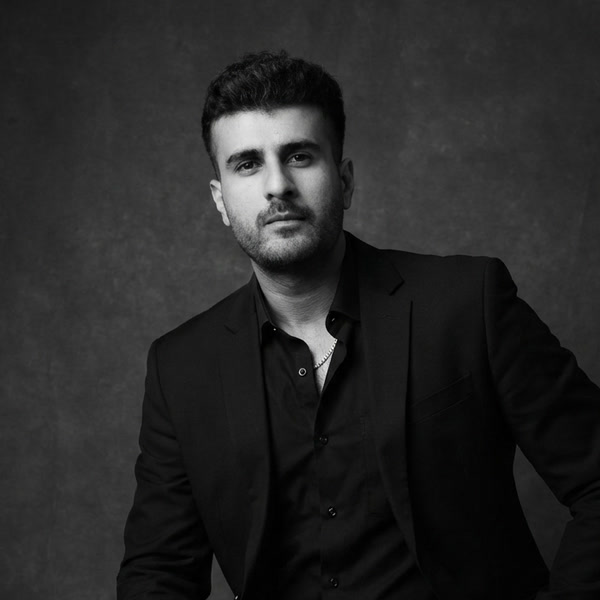
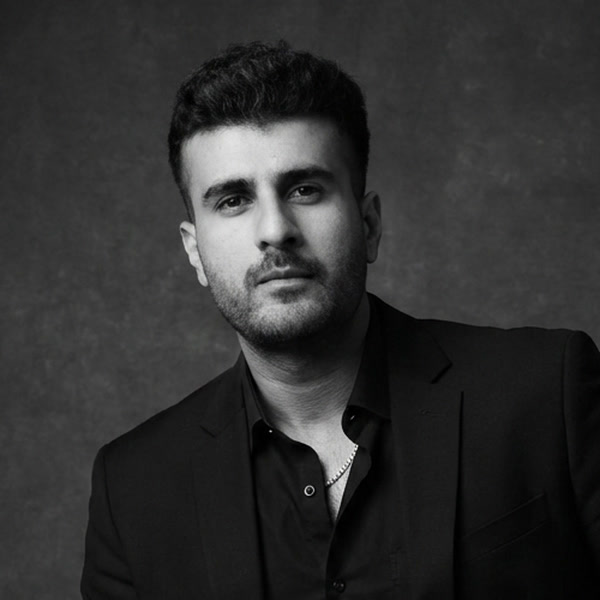
Harsh's portrait, tighter
The head-and-shoulders crop read wide once it was inside a small circle.
Cropped closer so the face carries the frame.

diff --git a/test3/product-founder-branding-autopilot.html b/test3/product-founder-branding-autopilot.html
@@ -34,7 +34,7 @@
   <link rel="apple-touch-icon" sizes="180x180" href="/apple-touch-icon.png">
   <link rel="preload" href="assets/fonts/anton-latin.woff2" as="font" type="font/woff2" crossorigin>
   <link rel="preload" href="assets/fonts/chivo-mono-latin.woff2" as="font" type="font/woff2" crossorigin>
-  <link rel="stylesheet" href="assets/css/main.css?v=2609131116">
+  <link rel="stylesheet" href="assets/css/main.css?v=2609131127">
   <script type="speculationrules">{"prefetch":[{"where":{"href_matches":"/*"},"eagerness":"conservative"}]}</script>
 </head>
 <body>
@@ -505,14 +505,14 @@
 
   </main>
 
-  <script src="assets/js/vendor/gsap.min.js?v=2609131116"></script>
-  <script src="assets/js/vendor/ScrollTrigger.min.js?v=2609131116"></script>
-  <script src="assets/js/vendor/lenis.min.js?v=2609131116"></script>
-  <script src="assets/js/main.js?v=2609131116"></script>
-  <script src="assets/js/work.js?v=2609131116"></script>
-  <script src="assets/js/work-film.js?v=2609131116"></script>
-  <script src="assets/js/panels.js?v=2609131116"></script>
-  <script src="assets/js/chat-play.js?v=2609131116"></script>
-  <script src="assets/js/project-film.js?v=2609131116"></script>
+  <script src="assets/js/vendor/gsap.min.js?v=2609131127"></script>
+  <script src="assets/js/vendor/ScrollTrigger.min.js?v=2609131127"></script>
+  <script src="assets/js/vendor/lenis.min.js?v=2609131127"></script>
+  <script src="assets/js/main.js?v=2609131127"></script>
+  <script src="assets/js/work.js?v=2609131127"></script>
+  <script src="assets/js/work-film.js?v=2609131127"></script>
+  <script src="assets/js/panels.js?v=2609131127"></script>
+  <script src="assets/js/chat-play.js?v=2609131127"></script>
+  <script src="assets/js/project-film.js?v=2609131127"></script>
 </body>
 </html>

diff --git a/test3/index.html b/test3/index.html
@@ -34,7 +34,7 @@
   <link rel="apple-touch-icon" sizes="180x180" href="/apple-touch-icon.png">
   <link rel="preload" href="assets/fonts/anton-latin.woff2" as="font" type="font/woff2" crossorigin>
   <link rel="preload" href="assets/fonts/chivo-mono-latin.woff2" as="font" type="font/woff2" crossorigin>
-  <link rel="stylesheet" href="assets/css/main.css?v=2609131116">
+  <link rel="stylesheet" href="assets/css/main.css?v=2609131127">
   <script type="speculationrules">{"prefetch":[{"where":{"href_matches":"/*"},"eagerness":"conservative"}]}</script>
 </head>
 <body>
@@ -323,11 +323,11 @@
 
   </main>
 
-  <script src="assets/js/vendor/gsap.min.js?v=2609131116"></script>
-  <script src="assets/js/vendor/ScrollTrigger.min.js?v=2609131116"></script>
-  <script src="assets/js/vendor/lenis.min.js?v=2609131116"></script>
-  <script src="assets/js/main.js?v=2609131116"></script>
-  <script src="assets/js/home.js?v=2609131116"></script>
-  <script src="assets/js/panel-video.js?v=2609131116"></script>
+  <script src="assets/js/vendor/gsap.min.js?v=2609131127"></script>
+  <script src="assets/js/vendor/ScrollTrigger.min.js?v=2609131127"></script>
+  <script src="assets/js/vendor/lenis.min.js?v=2609131127"></script>
+  <script src="assets/js/main.js?v=2609131127"></script>
+  <script src="assets/js/home.js?v=2609131127"></script>
+  <script src="assets/js/panel-video.js?v=2609131127"></script>
 </body>
 </html>

diff --git a/test3/product.html b/test3/product.html
@@ -34,7 +34,7 @@
   <link rel="apple-touch-icon" sizes="180x180" href="/apple-touch-icon.png">
   <link rel="preload" href="assets/fonts/anton-latin.woff2" as="font" type="font/woff2" crossorigin>
   <link rel="preload" href="assets/fonts/chivo-mono-latin.woff2" as="font" type="font/woff2" crossorigin>
-  <link rel="stylesheet" href="assets/css/main.css?v=2609131116">
+  <link rel="stylesheet" href="assets/css/main.css?v=2609131127">
   <script type="speculationrules">{"prefetch":[{"where":{"href_matches":"/*"},"eagerness":"conservative"}]}</script>
 </head>
 <body>
@@ -176,11 +176,11 @@
 
   </main>
 
-  <script src="assets/js/vendor/gsap.min.js?v=2609131116"></script>
-  <script src="assets/js/vendor/ScrollTrigger.min.js?v=2609131116"></script>
-  <script src="assets/js/vendor/lenis.min.js?v=2609131116"></script>
-  <script src="assets/js/main.js?v=2609131116"></script>
-  <script src="assets/js/work.js?v=2609131116"></script>
-  <script src="assets/js/work-film.js?v=2609131116"></script>
+  <script src="assets/js/vendor/gsap.min.js?v=2609131127"></script>
+  <script src="assets/js/vendor/ScrollTrigger.min.js?v=2609131127"></script>
+  <script src="assets/js/vendor/lenis.min.js?v=2609131127"></script>
+  <script src="assets/js/main.js?v=2609131127"></script>
+  <script src="assets/js/work.js?v=2609131127"></script>
+  <script src="assets/js/work-film.js?v=2609131127"></script>
 </body>
 </html>

diff --git a/test3/work.html b/test3/work.html
@@ -34,7 +34,7 @@
   <link rel="apple-touch-icon" sizes="180x180" href="/apple-touch-icon.png">
   <link rel="preload" href="assets/fonts/anton-latin.woff2" as="font" type="font/woff2" crossorigin>
   <link rel="preload" href="assets/fonts/chivo-mono-latin.woff2" as="font" type="font/woff2" crossorigin>
-  <link rel="stylesheet" href="assets/css/main.css?v=2609131116">
+  <link rel="stylesheet" href="assets/css/main.css?v=2609131127">
   <script type="speculationrules">{"prefetch":[{"where":{"href_matches":"/*"},"eagerness":"conservative"}]}</script>
 </head>
 <body>
@@ -336,11 +336,11 @@
 
   </main>
 
-  <script src="assets/js/vendor/gsap.min.js?v=2609131116"></script>
-  <script src="assets/js/vendor/ScrollTrigger.min.js?v=2609131116"></script>
-  <script src="assets/js/vendor/lenis.min.js?v=2609131116"></script>
-  <script src="assets/js/main.js?v=2609131116"></script>
-  <script src="assets/js/work.js?v=2609131116"></script>
-  <script src="assets/js/work-film.js?v=2609131116"></script>
+  <script src="assets/js/vendor/gsap.min.js?v=2609131127"></script>
+  <script src="assets/js/vendor/ScrollTrigger.min.js?v=2609131127"></script>
+  <script src="assets/js/vendor/lenis.min.js?v=2609131127"></script>
+  <script src="assets/js/main.js?v=2609131127"></script>
+  <script src="assets/js/work.js?v=2609131127"></script>
+  <script src="assets/js/work-film.js?v=2609131127"></script>
 </body>
 </html>

diff --git a/test3/offerings.html b/test3/offerings.html
@@ -34,7 +34,7 @@
   <link rel="apple-touch-icon" sizes="180x180" href="/apple-touch-icon.png">
   <link rel="preload" href="assets/fonts/anton-latin.woff2" as="font" type="font/woff2" crossorigin>
   <link rel="preload" href="assets/fonts/chivo-mono-latin.woff2" as="font" type="font/woff2" crossorigin>
-  <link rel="stylesheet" href="assets/css/main.css?v=2609131116">
+  <link rel="stylesheet" href="assets/css/main.css?v=2609131127">
   <script type="speculationrules">{"prefetch":[{"where":{"href_matches":"/*"},"eagerness":"conservative"}]}</script>
 </head>
 <body>
@@ -393,11 +393,11 @@
 
   </main>
 
-  <script src="assets/js/vendor/gsap.min.js?v=2609131116"></script>
-  <script src="assets/js/vendor/ScrollTrigger.min.js?v=2609131116"></script>
-  <script src="assets/js/vendor/lenis.min.js?v=2609131116"></script>
-  <script src="assets/js/main.js?v=2609131116"></script>
-  <script src="assets/js/work.js?v=2609131116"></script>
-  <script src="assets/js/panels.js?v=2609131116"></script>
+  <script src="assets/js/vendor/gsap.min.js?v=2609131127"></script>
+  <script src="assets/js/vendor/ScrollTrigger.min.js?v=2609131127"></script>
+  <script src="assets/js/vendor/lenis.min.js?v=2609131127"></script>
+  <script src="assets/js/main.js?v=2609131127"></script>
+  <script src="assets/js/work.js?v=2609131127"></script>
+  <script src="assets/js/panels.js?v=2609131127"></script>
 </body>
 </html>

diff --git a/test3/project-apna-ghar-adani-realty.html b/test3/project-apna-ghar-adani-realty.html
@@ -38,7 +38,7 @@
   <link rel="apple-touch-icon" sizes="180x180" href="/apple-touch-icon.png">
   <link rel="preload" href="assets/fonts/anton-latin.woff2" as="font" type="font/woff2" crossorigin>
   <link rel="preload" href="assets/fonts/chivo-mono-latin.woff2" as="font" type="font/woff2" crossorigin>
-  <link rel="stylesheet" href="assets/css/main.css?v=2609131116">
+  <link rel="stylesheet" href="assets/css/main.css?v=2609131127">
   <script type="speculationrules">{"prefetch":[{"where":{"href_matches":"/*"},"eagerness":"conservative"}]}</script>
 </head>
 <body>
@@ -188,10 +188,10 @@
 
   </main>
 
-  <script src="assets/js/vendor/gsap.min.js?v=2609131116"></script>
-  <script src="assets/js/vendor/ScrollTrigger.min.js?v=2609131116"></script>
-  <script src="assets/js/vendor/lenis.min.js?v=2609131116"></script>
-  <script src="assets/js/main.js?v=2609131116"></script>
-  <script src="assets/js/project-film.js?v=2609131116"></script>
+  <script src="assets/js/vendor/gsap.min.js?v=2609131127"></script>
+  <script src="assets/js/vendor/ScrollTrigger.min.js?v=2609131127"></script>
+  <script src="assets/js/vendor/lenis.min.js?v=2609131127"></script>
+  <script src="assets/js/main.js?v=2609131127"></script>
+  <script src="assets/js/project-film.js?v=2609131127"></script>
 </body>
 </html>

diff --git a/test3/project-betu-ai-animated-film-scene-toogood.html b/test3/project-betu-ai-animated-film-scene-toogood.html
@@ -38,7 +38,7 @@
   <link rel="apple-touch-icon" sizes="180x180" href="/apple-touch-icon.png">
   <link rel="preload" href="assets/fonts/anton-latin.woff2" as="font" type="font/woff2" crossorigin>
   <link rel="preload" href="assets/fonts/chivo-mono-latin.woff2" as="font" type="font/woff2" crossorigin>
-  <link rel="stylesheet" href="assets/css/main.css?v=2609131116">
+  <link rel="stylesheet" href="assets/css/main.css?v=2609131127">
   <script type="speculationrules">{"prefetch":[{"where":{"href_matches":"/*"},"eagerness":"conservative"}]}</script>
 </head>
 <body>
@@ -188,10 +188,10 @@
 
   </main>
 
-  <script src="assets/js/vendor/gsap.min.js?v=2609131116"></script>
-  <script src="assets/js/vendor/ScrollTrigger.min.js?v=2609131116"></script>
-  <script src="assets/js/vendor/lenis.min.js?v=2609131116"></script>
-  <script src="assets/js/main.js?v=2609131116"></script>
-  <script src="assets/js/project-film.js?v=2609131116"></script>
+  <script src="assets/js/vendor/gsap.min.js?v=2609131127"></script>
+  <script src="assets/js/vendor/ScrollTrigger.min.js?v=2609131127"></script>
+  <script src="assets/js/vendor/lenis.min.js?v=2609131127"></script>
+  <script src="assets/js/main.js?v=2609131127"></script>
+  <script src="assets/js/project-film.js?v=2609131127"></script>
 </body>
 </html>

diff --git a/test3/project-building-making-ub-heritage.html b/test3/project-building-making-ub-heritage.html
@@ -38,7 +38,7 @@
   <link rel="apple-touch-icon" sizes="180x180" href="/apple-touch-icon.png">
   <link rel="preload" href="assets/fonts/anton-latin.woff2" as="font" type="font/woff2" crossorigin>
   <link rel="preload" href="assets/fonts/chivo-mono-latin.woff2" as="font" type="font/woff2" crossorigin>
-  <link rel="stylesheet" href="assets/css/main.css?v=2609131116">
+  <link rel="stylesheet" href="assets/css/main.css?v=2609131127">
   <script type="speculationrules">{"prefetch":[{"where":{"href_matches":"/*"},"eagerness":"conservative"}]}</script>
 </head>
 <body>
@@ -188,10 +188,10 @@
 
   </main>
 
-  <script src="assets/js/vendor/gsap.min.js?v=2609131116"></script>
-  <script src="assets/js/vendor/ScrollTrigger.min.js?v=2609131116"></script>
-  <script src="assets/js/vendor/lenis.min.js?v=2609131116"></script>
-  <script src="assets/js/main.js?v=2609131116"></script>
-  <script src="assets/js/project-film.js?v=2609131116"></script>
+  <script src="assets/js/vendor/gsap.min.js?v=2609131127"></script>
+  <script src="assets/js/vendor/ScrollTrigger.min.js?v=2609131127"></script>
+  <script src="assets/js/vendor/lenis.min.js?v=2609131127"></script>
+  <script src="assets/js/main.js?v=2609131127"></script>
+  <script src="assets/js/project-film.js?v=2609131127"></script>
 </body>
 </html>

diff --git a/test3/project-jewellery-ad-concept.html b/test3/project-jewellery-ad-concept.html
@@ -38,7 +38,7 @@
   <link rel="apple-touch-icon" sizes="180x180" href="/apple-touch-icon.png">
   <link rel="preload" href="assets/fonts/anton-latin.woff2" as="font" type="font/woff2" crossorigin>
   <link rel="preload" href="assets/fonts/chivo-mono-latin.woff2" as="font" type="font/woff2" crossorigin>
-  <link rel="stylesheet" href="assets/css/main.css?v=2609131116">
+  <link rel="stylesheet" href="assets/css/main.css?v=2609131127">
   <script type="speculationrules">{"prefetch":[{"where":{"href_matches":"/*"},"eagerness":"conservative"}]}</script>
 </head>
 <body>
@@ -188,10 +188,10 @@
 
   </main>
 
-  <script src="assets/js/vendor/gsap.min.js?v=2609131116"></script>
-  <script src="assets/js/vendor/ScrollTrigger.min.js?v=2609131116"></script>
-  <script src="assets/js/vendor/lenis.min.js?v=2609131116"></script>
-  <script src="assets/js/main.js?v=2609131116"></script>
-  <script src="assets/js/project-film.js?v=2609131116"></script>
+  <script src="assets/js/vendor/gsap.min.js?v=2609131127"></script>
+  <script src="assets/js/vendor/ScrollTrigger.min.js?v=2609131127"></script>
+  <script src="assets/js/vendor/lenis.min.js?v=2609131127"></script>
+  <script src="assets/js/main.js?v=2609131127"></script>
+  <script src="assets/js/project-film.js?v=2609131127"></script>
 </body>
 </html>

diff --git a/test3/project-mera-broadband.html b/test3/project-mera-broadband.html
@@ -38,7 +38,7 @@
   <link rel="apple-touch-icon" sizes="180x180" href="/apple-touch-icon.png">
   <link rel="preload" href="assets/fonts/anton-latin.woff2" as="font" type="font/woff2" crossorigin>
   <link rel="preload" href="assets/fonts/chivo-mono-latin.woff2" as="font" type="font/woff2" crossorigin>
-  <link rel="stylesheet" href="assets/css/main.css?v=2609131116">
+  <link rel="stylesheet" href="assets/css/main.css?v=2609131127">
   <script type="speculationrules">{"prefetch":[{"where":{"href_matches":"/*"},"eagerness":"conservative"}]}</script>
 </head>
 <body>
@@ -188,10 +188,10 @@
 
   </main>
 
-  <script src="assets/js/vendor/gsap.min.js?v=2609131116"></script>
-  <script src="assets/js/vendor/ScrollTrigger.min.js?v=2609131116"></script>
-  <script src="assets/js/vendor/lenis.min.js?v=2609131116"></script>
-  <script src="assets/js/main.js?v=2609131116"></script>
-  <script src="assets/js/project-film.js?v=2609131116"></script>
+  <script src="assets/js/vendor/gsap.min.js?v=2609131127"></script>
+  <script src="assets/js/vendor/ScrollTrigger.min.js?v=2609131127"></script>
+  <script src="assets/js/vendor/lenis.min.js?v=2609131127"></script>
+  <script src="assets/js/main.js?v=2609131127"></script>
+  <script src="assets/js/project-film.js?v=2609131127"></script>
 </body>
 </html>

diff --git a/test3/project-office-to-home-ub-heritage.html b/test3/project-office-to-home-ub-heritage.html
@@ -38,7 +38,7 @@
   <link rel="apple-touch-icon" sizes="180x180" href="/apple-touch-icon.png">
   <link rel="preload" href="assets/fonts/anton-latin.woff2" as="font" type="font/woff2" crossorigin>
   <link rel="preload" href="assets/fonts/chivo-mono-latin.woff2" as="font" type="font/woff2" crossorigin>
-  <link rel="stylesheet" href="assets/css/main.css?v=2609131116">
+  <link rel="stylesheet" href="assets/css/main.css?v=2609131127">
   <script type="speculationrules">{"prefetch":[{"where":{"href_matches":"/*"},"eagerness":"conservative"}]}</script>
 </head>
 <body>
@@ -188,10 +188,10 @@
 
   </main>
 
-  <script src="assets/js/vendor/gsap.min.js?v=2609131116"></script>
-  <script src="assets/js/vendor/ScrollTrigger.min.js?v=2609131116"></script>
-  <script src="assets/js/vendor/lenis.min.js?v=2609131116"></script>
-  <script src="assets/js/main.js?v=2609131116"></script>
-  <script src="assets/js/project-film.js?v=2609131116"></script>
+  <script src="assets/js/vendor/gsap.min.js?v=2609131127"></script>
+  <script src="assets/js/vendor/ScrollTrigger.min.js?v=2609131127"></script>
+  <script src="assets/js/vendor/lenis.min.js?v=2609131127"></script>
+  <script src="assets/js/main.js?v=2609131127"></script>
+  <script src="assets/js/project-film.js?v=2609131127"></script>
 </body>
 </html>

diff --git a/test3/project-real-estate-ad-concept.html b/test3/project-real-estate-ad-concept.html
@@ -38,7 +38,7 @@
   <link rel="apple-touch-icon" sizes="180x180" href="/apple-touch-icon.png">
   <link rel="preload" href="assets/fonts/anton-latin.woff2" as="font" type="font/woff2" crossorigin>
   <link rel="preload" href="assets/fonts/chivo-mono-latin.woff2" as="font" type="font/woff2" crossorigin>
-  <link rel="stylesheet" href="assets/css/main.css?v=2609131116">
+  <link rel="stylesheet" href="assets/css/main.css?v=2609131127">
   <script type="speculationrules">{"prefetch":[{"where":{"href_matches":"/*"},"eagerness":"conservative"}]}</script>
 </head>
 <body>
@@ -188,10 +188,10 @@
 
   </main>
 
-  <script src="assets/js/vendor/gsap.min.js?v=2609131116"></script>
-  <script src="assets/js/vendor/ScrollTrigger.min.js?v=2609131116"></script>
-  <script src="assets/js/vendor/lenis.min.js?v=2609131116"></script>
-  <script src="assets/js/main.js?v=2609131116"></script>
-  <script src="assets/js/project-film.js?v=2609131116"></script>
+  <script src="assets/js/vendor/gsap.min.js?v=2609131127"></script>
+  <script src="assets/js/vendor/ScrollTrigger.min.js?v=2609131127"></script>
+  <script src="assets/js/vendor/lenis.min.js?v=2609131127"></script>
+  <script src="assets/js/main.js?v=2609131127"></script>
+  <script src="assets/js/project-film.js?v=2609131127"></script>
 </body>
 </html>
